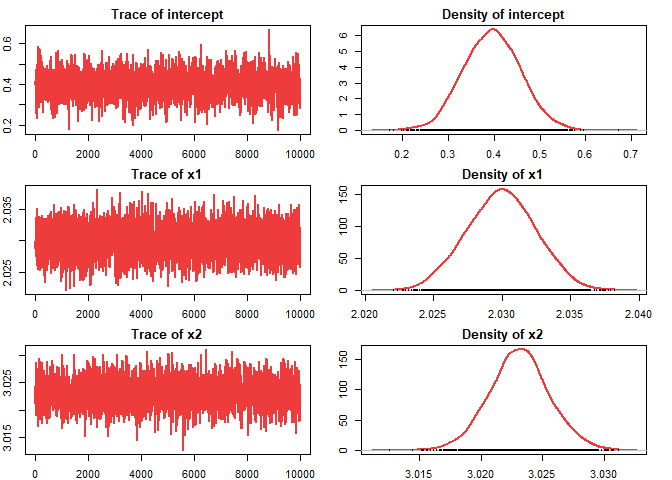
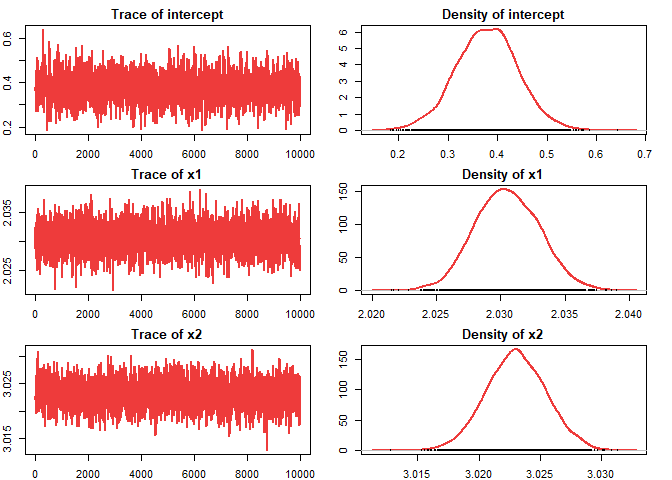
update progress

diff --git a/README.md b/README.md
@@ -21,9 +21,9 @@ Ridson Al Farizal P \<alfrzlp@gmail.com\>
 
 We designed this package to provide several functions for unit level of
 small area estimation (Battese, Harter and Fuller model) using
-hierarchical Bayesian (HB) method. This package also provides a dataset
-produced by a data generation. The `rjags` package is employed to obtain
-parameter estimates
+hierarchical Bayesian (HB) method. It also provides datasets generated
+by data generation and real dataset. The `rjags` package is employed to
+obtain parameter estimates
 
 # Installation
 
@@ -52,8 +52,7 @@ library(ggplot2)
 library(tidyr)
 
 windowsFonts(
-  poppins = windowsFont('poppins'),
-  tnr = windowsFont('Times New Roman')
+  poppins = windowsFont('poppins')
 )
 ```
 
@@ -108,7 +107,7 @@ corn_model <- hb_unit(
 )
 ```
 
-![](man/figures/README-unnamed-chunk-7-1.png)<!-- -->![](man/figures/README-unnamed-chunk-7-2.png)<!-- -->
+<img src="man/figures/README-unnamed-chunk-7-1.png" height="50%" /><img src="man/figures/README-unnamed-chunk-7-2.png" height="50%" />
 
     #>                   Mean         SD       2.5%        25%        50%        75%
     #> intercept    0.1552265  0.7415844 -1.3078113 -0.3262636  0.1458748  0.6601395
@@ -156,12 +155,12 @@ hb_model <- hb_unit(
   iter.update = 30,
   plot = FALSE
 )
-#> Update 2/30 | ■■■                                7% | ETA:  1m Update 3/30 | ■■■■                              10% | ETA:  1m Update 4/30 | ■■■■■                             13% | ETA:  1m Update 5/30 | ■■■■■■                            17% | ETA:  2m Update 6/30 | ■■■■■■■                           20% | ETA:  1m Update 7/30 | ■■■■■■■■                          23% | ETA:  1m Update 8/30 | ■■■■■■■■■                         27% | ETA:  1m Update 9/30 | ■■■■■■■■■■                        30% | ETA:  1m Update 10/30 | ■■■■■■■■■■■                       33% | ETA:  1m Update 11/30 | ■■■■■■■■■■■■                      37% | ETA:  1m Update 12/30 | ■■■■■■■■■■■■■                     40% | ETA:  1m Update 13/30 | ■■■■■■■■■■■■■■                    43% | ETA:  1m Update 14/30 | ■■■■■■■■■■■■■■■                   47% | ETA:  1m Update 15/30 | ■■■■■■■■■■■■■■■■                  50% | ETA:  1m Update 16/30 | ■■■■■■■■■■■■■■■■■                 53% | ETA:  1m Update 17/30 | ■■■■■■■■■■■■■■■■■■                57% | ETA:  1m Update 18/30 | ■■■■■■■■■■■■■■■■■■■               60% | ETA:  1m Update 19/30 | ■■■■■■■■■■■■■■■■■■■■              63% | ETA: 48s Update 20/30 | ■■■■■■■■■■■■■■■■■■■■■             67% | ETA: 44s Update 21/30 | ■■■■■■■■■■■■■■■■■■■■■■            70% | ETA: 40s Update 22/30 | ■■■■■■■■■■■■■■■■■■■■■■■           73% | ETA: 35s Update 23/30 | ■■■■■■■■■■■■■■■■■■■■■■■■          77% | ETA: 31s Update 24/30 | ■■■■■■■■■■■■■■■■■■■■■■■■■         80% | ETA: 27s Update 25/30 | ■■■■■■■■■■■■■■■■■■■■■■■■■■        83% | ETA: 22s Update 26/30 | ■■■■■■■■■■■■■■■■■■■■■■■■■■■       87% | ETA: 18s Update 27/30 | ■■■■■■■■■■■■■■■■■■■■■■■■■■■■      90% | ETA: 13s Update 28/30 | ■■■■■■■■■■■■■■■■■■■■■■■■■■■■■     93% | ETA:  9s Update 29/30 | ■■■■■■■■■■■■■■■■■■■■■■■■■■■■■■    97% | ETA:  4s                                                                  
+#> Update 2/30 | ■■■                                7% | ETA:  1m Update 3/30 | ■■■■                              10% | ETA:  1m Update 4/30 | ■■■■■                             13% | ETA:  1m Update 5/30 | ■■■■■■                            17% | ETA:  2m Update 6/30 | ■■■■■■■                           20% | ETA:  2m Update 7/30 | ■■■■■■■■                          23% | ETA:  1m Update 8/30 | ■■■■■■■■■                         27% | ETA:  1m Update 9/30 | ■■■■■■■■■■                        30% | ETA:  1m Update 10/30 | ■■■■■■■■■■■                       33% | ETA:  1m Update 11/30 | ■■■■■■■■■■■■                      37% | ETA:  1m Update 12/30 | ■■■■■■■■■■■■■                     40% | ETA:  1m Update 13/30 | ■■■■■■■■■■■■■■                    43% | ETA:  1m Update 14/30 | ■■■■■■■■■■■■■■■                   47% | ETA:  1m Update 15/30 | ■■■■■■■■■■■■■■■■                  50% | ETA:  1m Update 16/30 | ■■■■■■■■■■■■■■■■■                 53% | ETA:  1m Update 17/30 | ■■■■■■■■■■■■■■■■■■                57% | ETA:  1m Update 18/30 | ■■■■■■■■■■■■■■■■■■■               60% | ETA: 48s Update 19/30 | ■■■■■■■■■■■■■■■■■■■■              63% | ETA: 44s Update 20/30 | ■■■■■■■■■■■■■■■■■■■■■             67% | ETA: 40s Update 21/30 | ■■■■■■■■■■■■■■■■■■■■■■            70% | ETA: 36s Update 22/30 | ■■■■■■■■■■■■■■■■■■■■■■■           73% | ETA: 32s Update 23/30 | ■■■■■■■■■■■■■■■■■■■■■■■■          77% | ETA: 28s Update 24/30 | ■■■■■■■■■■■■■■■■■■■■■■■■■         80% | ETA: 24s Update 25/30 | ■■■■■■■■■■■■■■■■■■■■■■■■■■        83% | ETA: 20s Update 26/30 | ■■■■■■■■■■■■■■■■■■■■■■■■■■■       87% | ETA: 16s Update 27/30 | ■■■■■■■■■■■■■■■■■■■■■■■■■■■■      90% | ETA: 12s Update 28/30 | ■■■■■■■■■■■■■■■■■■■■■■■■■■■■■     93% | ETA:  8s Update 29/30 | ■■■■■■■■■■■■■■■■■■■■■■■■■■■■■■    97% | ETA:  4s                                                                  
 #> ── Coefficient ─────────────────────────────────────────────────────────────────
-#>                Mean        SD      2.5%       25%       50%       75%  97.5%
-#> intercept 0.3956492 0.0617641 0.2782538 0.3541377 0.3959184 0.4381824 0.5155
-#> x1        2.0299674 0.0025044 2.0250598 2.0282458 2.0299535 2.0316761 2.0348
-#> x2        3.0231057 0.0024531 3.0182595 3.0215433 3.0231084 3.0246654 3.0280
+#>               Mean       SD     2.5%      25%      50%      75%  97.5%
+#> intercept 0.378852 0.062256 0.252646 0.337971 0.379439 0.419977 0.5013
+#> x1        2.030510 0.002474 2.025838 2.028792 2.030444 2.032235 2.0353
+#> x2        3.023038 0.002416 3.018342 3.021392 3.023045 3.024691 3.0279
 ```
 
 ## Autocorelation, Trace and Density plot
@@ -176,10 +175,10 @@ saeHB.unit::autoplot(hb_model)
 
 ``` r
 summary(hb_model)
-#>                Mean        SD      2.5%       25%       50%       75%  97.5%
-#> intercept 0.3956492 0.0617641 0.2782538 0.3541377 0.3959184 0.4381824 0.5155
-#> x1        2.0299674 0.0025044 2.0250598 2.0282458 2.0299535 2.0316761 2.0348
-#> x2        3.0231057 0.0024531 3.0182595 3.0215433 3.0231084 3.0246654 3.0280
+#>               Mean       SD     2.5%      25%      50%      75%  97.5%
+#> intercept 0.378852 0.062256 0.252646 0.337971 0.379439 0.419977 0.5013
+#> x1        2.030510 0.002474 2.025838 2.028792 2.030444 2.032235 2.0353
+#> x2        3.023038 0.002416 3.018342 3.021392 3.023045 3.024691 3.0279
 ```
 
 ``` r
